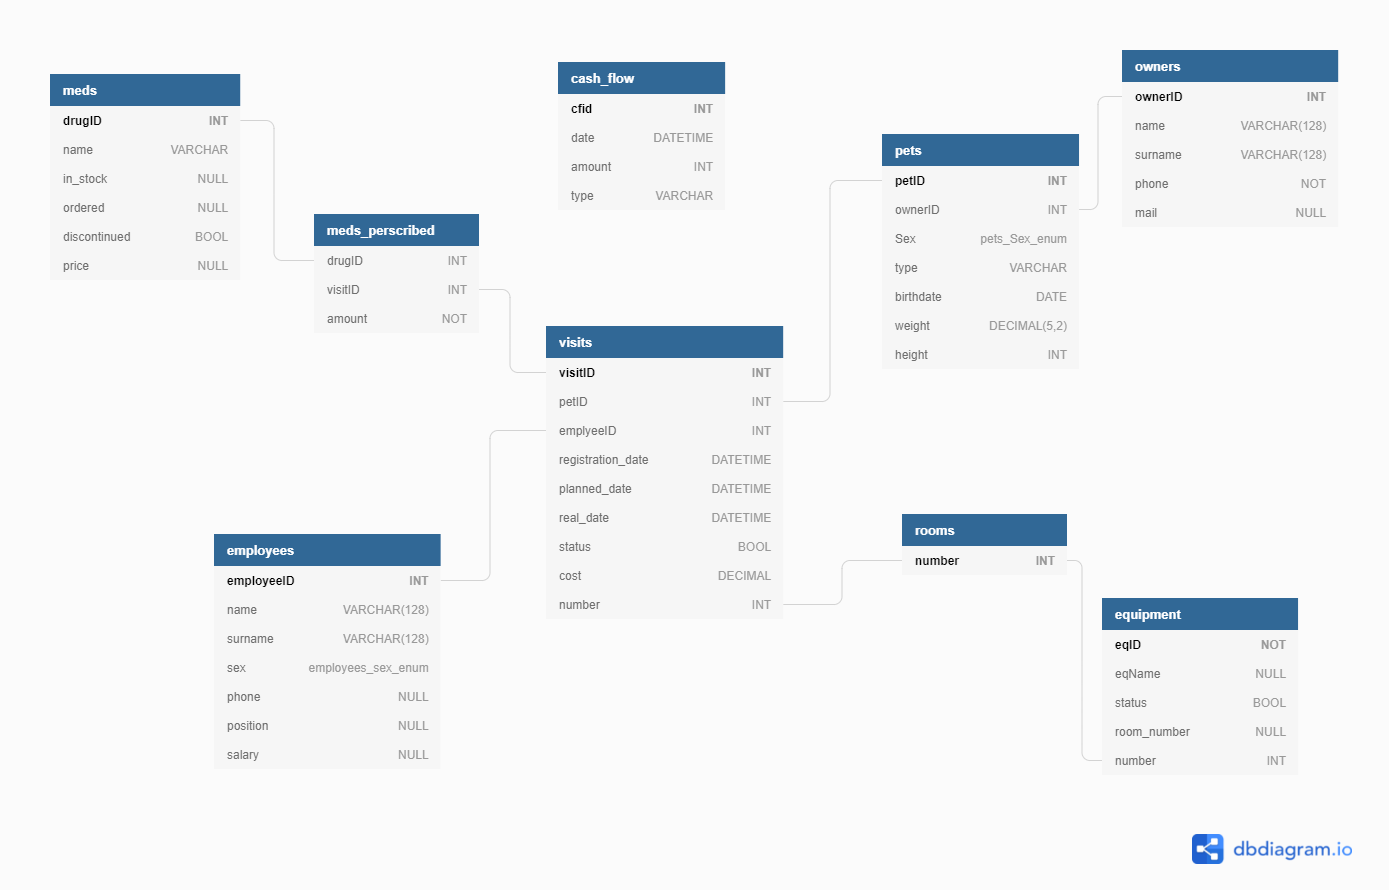
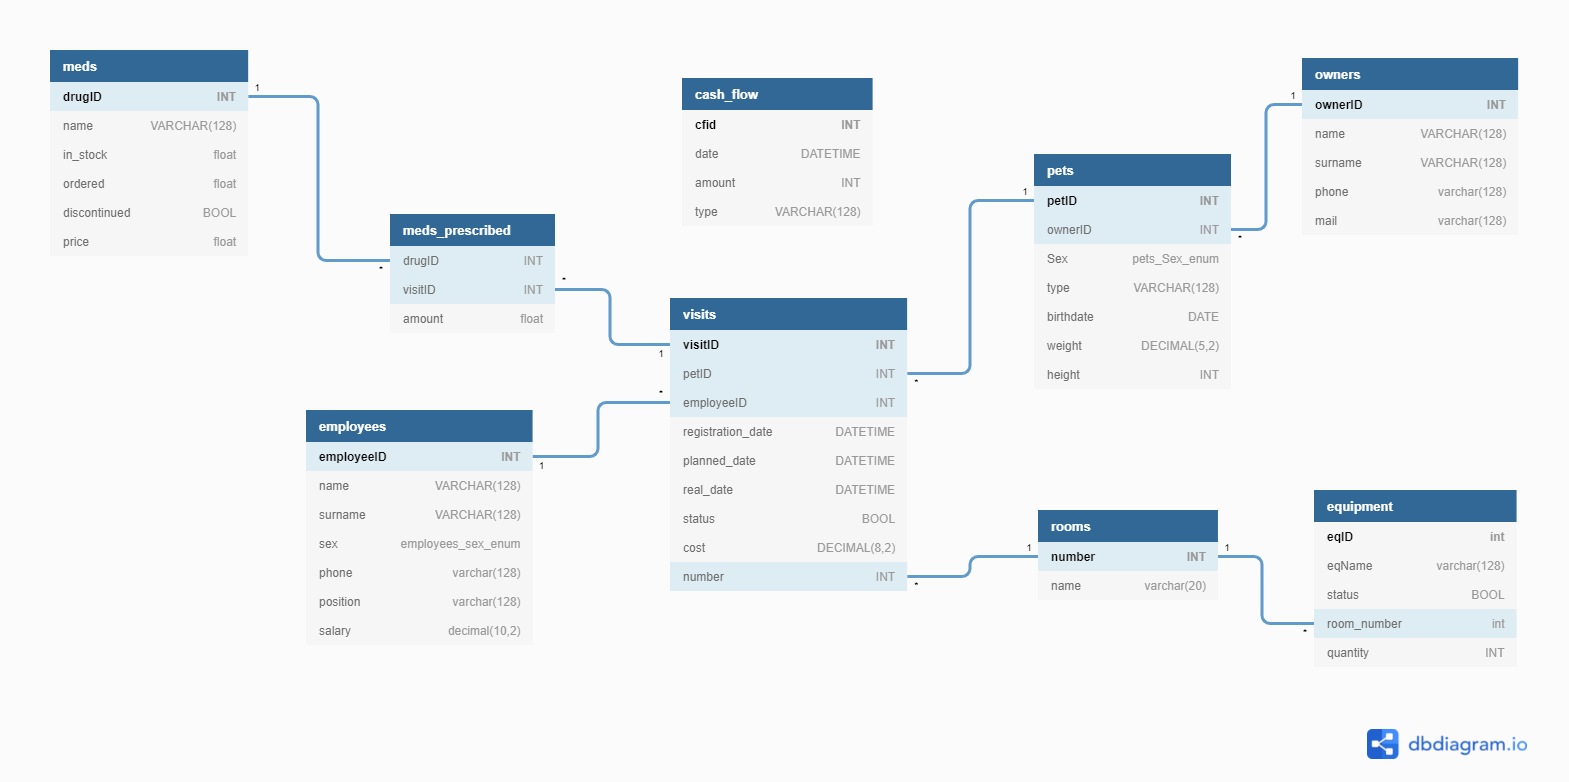
visits and cashflow generation

diff --git a/final_code/tables_fulfill.py b/final_code/tables_fulfill.py
@@ -3,6 +3,8 @@ from dataclasses import dataclass
 import numpy as np
 import pandas as pd
 import typing
+from datetime import datetime, timedelta
+from generate import breeds
 
 
 @dataclass
@@ -39,21 +41,23 @@ class Fulfillment:
         self.cursor.execute(qr, (name, in_stock, ordered, discontinued, price))
 
     def meds_prescribed(self, drugID, visitID, amount):
-        qr = '''INSERT INTO vet_clinic.meds_prescribed (name, in_stock, ordered, discontinued, price)
-        VALUES (?, ?, ?, ?, ?)'''
+        qr = '''INSERT INTO vet_clinic.meds_prescribed (drugID, visitID, amount) VALUES (?, ?, ?)'''
         self.cursor.execute(qr, (drugID, visitID, amount))
+
+    def cash_flow(self, date, amount, atype):
+        qr = 'INSERT INTO vet_clinic.cash_flow(date, amount, type) VALUES(?, ?, ?)'
+        self.cursor.execute(qr, (date, amount, atype))
 
 
 def fill(cursor):
     # zmienić później na rand values
     vets_number = 3
-    rooms_number = vets_number + 2
-    visits_number = 20
     owners_number = 200
     people = pd.read_csv(r'../data/users_randomized.csv').sample(1000)
     meds = pd.read_csv(r'../data/drugs.csv')
     vet = Fulfillment(cursor)
-
+    start_date = datetime(2020, 1, 1)
+    end_date = datetime.today() - timedelta(days=1)
 
     def employee_fill():
         # Recepcjonista
@@ -71,18 +75,18 @@ def fill(cursor):
 
         # weterynarze int(np.random.randint(3670, 5360)))
         for i in range(vets_number):
-            vet.employees(people.iloc[i+4, 0], people.iloc[i+4, 1], people.iloc[i+4, 3],
-                          str(people.iloc[i+4, 2]), 'Weterynarz', int(np.random.randint(3670, 5360)))
+            vet.employees(people.iloc[i + 4, 0], people.iloc[i + 4, 1], people.iloc[i + 4, 3],
+                          str(people.iloc[i + 4, 2]), 'Weterynarz', int(np.random.randint(3670, 5360)))
 
     def room_fill():
         rooms = {1: 'recepcja', 2: 'gabinet 1', 3: 'gabinet 2', 4: 'socjal', 5: 'zaplecze', 6: 'gabinet zabiegowy'}
         for key, val in rooms.items():
-            vet.rooms(key+100, val)
+            vet.rooms(key + 100, val)
 
     def equipment_fill():
         names = pd.read_excel('../generate/meds.xlsx', names=['name'])['name']
         for name in names.values:
-            vet.equipment(str(name), True, random.randint(2, 3)+100, random.randint(0, 5))
+            vet.equipment(str(name), True, random.randint(2, 3) + 100, random.randint(0, 5))
 
     def meds_fill():
         for name in meds.values:
@@ -96,31 +100,84 @@ def fill(cursor):
 
     def owners_and_pets_fill():
         number_of_pets = {1: 0.7, 2: 0.15, 3: 0.075, 4: 0.05, 5: 0.025}
-        probs = {'dog': 0.3, 'cat': 0.3, 'hamster': 0.05, 'rabbit': 0.05, 'rat': 0.01,
-                 'guinea_pig': 0.005, 'chinchilla': 0.01, 'turtle': 0.01, 'canary': 0.01,
-                 'budgerigar': 0.01, 'iguana': 0.01}
-        # tutaj owner?
-        for i in range(1): #owners_number
-            name = people.iloc[-(i+1), 0]
-            surname = people.iloc[-(i+1), 1]
-            phone = people.iloc[-(i+1), 2]
+        number_of_pets_cum = np.array(list(number_of_pets.values())).cumsum()
+        pet_probs = {'dog': 0.4, 'cat': 0.385, 'hamster': 0.075, 'rabbit': 0.06, 'rat': 0.025,
+                     'guinea_pig': 0.005, 'chinchilla': 0.01, 'turtle': 0.01, 'canary': 0.01,
+                     'budgerigar': 0.01, 'iguana': 0.01}
+        pet_attributes = {'dog': breeds.dogs, 'cat': breeds.cats, 'hamster': breeds.hamsters,
+                          'rabbit': breeds.rabbits, 'rat': breeds.rats,
+                          'guinea_pig': breeds.guinea_pigs, 'chinchilla': breeds.chinchillas, 'turtle': breeds.turtles,
+                          'canary': breeds.canaries, 'budgerigar': breeds.budgerigars, 'iguana': breeds.iguanas}
+        pet_probs_cum = np.array(list(pet_probs.values())).cumsum()
+        pet_types = list(pet_probs.keys())
+
+        # generating owners
+        for i in range(owners_number):  # owners_number
+            name = people.iloc[-(i + 1), 0]
+            surname = people.iloc[-(i + 1), 1]
+            phone = str(people.iloc[-(i + 1), 2])
             mail = f'{name}.{surname}@mail.com'
-            print(np.cumsum(number_of_pets.values()))
-
-
-    def pets_fill():
-        # prawdopodobieństwo jaki zwierzak
-
-        pass
+            # adding owner to db
+            vet.owners(name, surname, phone, mail)
+            owner_pets = np.sum(number_of_pets_cum <= random.random()) + 1
+            # generating pets for owners
+            for pet in range(owner_pets):
+                # 0 - male, 1 - female
+                if random.random() < 0.5:
+                    sex = 'Male'
+                else:
+                    sex = 'Female'
+                #
+                pet_type = pet_types[np.sum(pet_probs_cum <= random.random())]
+                height, weight, birth_date = pet_attributes[pet_type]()
+                vet.pets(i + 1, sex, pet_type, birth_date, weight, height)
 
     def visits_fill():
-        # tutaj przy okazji meds described?
-        pass
+        # dziennie n wizyt
+        # dla każdej wizyty losujemy zwierzaka
+        # dodajemy wizyte, koszt, przepisane leki, weterynarza
+        n = 20
+        visitID = 0
+        cursor.execute('select salary from employees')
+        salaries = [float(res[0]) for res in cursor]
+        for i in range(abs((end_date - start_date).days)):
+            day = start_date + timedelta(days=i)
+            # addnig salaries to db
+            if day.day == 1:
+                if (day.month != start_date.month) or (day.year != start_date.year):
+                    for salary in salaries:
+                        vet.cash_flow(day, -salary, 'wyplata')
+            for j in range(n):
+                visitID += 1
+                employeeID = random.randint(5, 7)
+                registation_day = day - timedelta(days=random.randint(7, 14))
+                # nie odbyla się
+                planned_date = day + timedelta(hours=9, minutes=j * 30)
+                if random.random() < 0.05:
+                    status = False
+                    real_date = None
+                    cost = 50
+                else:
+                    status = True
+                    real_date = planned_date
+                    cost = random.randint(50, 200)
+                    if random.random() < 0.1:
+                        cost += random.randint(200, 500)
+                petID = random.randint(1, 200)
+                vet.visits(petID=petID, employeeID=employeeID, registration_date=registation_day,
+                           planned_date=planned_date, real_date=real_date, status=status, cost=cost,
+                           number=random.randint(102, 103))
+
+                # wylosować lek i ilość
+                med_prescribed = meds.sample(random.randint(0, 3))
+                for k in range(med_prescribed.shape[0]):
+                    drugID = med_prescribed.index[k] + 1
+                    qty = random.randint(1, 3)
+                    vet.meds_prescribed(drugID=int(drugID), visitID=visitID, amount=qty)
 
     employee_fill()
     room_fill()
     equipment_fill()
     meds_fill()
-    visits_fill()
     owners_and_pets_fill()
-    pets_fill()
+    visits_fill()

diff --git a/generate/breeds.py b/generate/breeds.py
@@ -14,7 +14,7 @@ def random_date(start, end):
 
 def dogs_regression():
     # tabela z rasami psów, ich wysokością i masą
-    df = pd.read_excel('dogs.xlsx')
+    df = pd.read_excel(r'../generate/dogs.xlsx')
 
     # kolumny z górną i dolną granicą wysokości dla ras
     h_low = df['height_low_m']
@@ -40,9 +40,11 @@ def dogs_regression():
     return [mean_low.intercept_, mean_low.coef_[0], mean_high.intercept_, mean_low.coef_[0], min(h_low), max(h_high)]
 
 
-def dogs(b):
+def dogs():
+    b = dogs_regression()
     # zmienna objaśniająca to wysokość psa, więc losujemy jakąś
-    gen_height = r.uniform(b[4], b[5])
+    # gen_height = r.uniform(b[4], b[5])
+    gen_height = r.gauss((b[5] + b[4])/2, (b[5] - b[4])/6)
 
     # przewidywalna masa psa o zadanej wysokości
     lower_predict = b[0] + b[1] * gen_height
@@ -60,7 +62,7 @@ def dogs(b):
     birthdate = random_date(start, end)
     birthdate.strftime('%Y-%m-%d')
 
-    return 'dog', gen_height, gen_weight, birthdate
+    return gen_height*100, abs(gen_weight), birthdate
 
 
 def cats():
@@ -75,7 +77,7 @@ def cats():
     birthdate = random_date(start, end)
     birthdate.strftime('%Y-%m-%d')
 
-    return 'cat', height, weight, birthdate
+    return  height*100, weight, birthdate
 
 
 def hamsters():
@@ -90,7 +92,7 @@ def hamsters():
     birthdate = random_date(start, end)
     birthdate.strftime('%Y-%m-%d')
 
-    return 'hamster', height, weight, birthdate
+    return  height*100, weight, birthdate
 
 
 def rabbits():
@@ -105,7 +107,7 @@ def rabbits():
     birthdate = random_date(start, end)
     birthdate.strftime('%Y-%m-%d')
 
-    return 'rabbit', height, weight, birthdate
+    return  height*100, weight, birthdate
 
 
 def rats():
@@ -120,7 +122,7 @@ def rats():
     birthdate = random_date(start, end)
     birthdate.strftime('%Y-%m-%d')
 
-    return 'rat', height, weight, birthdate
+    return  height*100, weight, birthdate
 
 def guinea_pigs():
     weight = r.uniform(0.7, 1.2)
@@ -134,7 +136,7 @@ def guinea_pigs():
     birthdate = random_date(start, end)
     birthdate.strftime('%Y-%m-%d')
 
-    return 'guinea_pig', height, weight, birthdate
+    return  height*100, weight, birthdate
 
 def chinchillas():
     weight = r.uniform(0.8, 1.1)
@@ -148,7 +150,7 @@ def chinchillas():
     birthdate = random_date(start, end)
     birthdate.strftime('%Y-%m-%d')
 
-    return 'chinchilla', height, weight, birthdate
+    return  height*100, weight, birthdate
 
 def turtles():
     weight = r.uniform(0.5, 2)
@@ -162,7 +164,7 @@ def turtles():
     birthdate = random_date(start, end)
     birthdate.strftime('%Y-%m-%d')
 
-    return 'turtle', height, weight, birthdate
+    return  height*100, weight, birthdate
 
 def canaries():
     weight = r.uniform(0.0084, 0.023)
@@ -176,7 +178,7 @@ def canaries():
     birthdate = random_date(start, end)
     birthdate.strftime('%Y-%m-%d')
 
-    return 'canary', height, weight, birthdate
+    return height*100, weight, birthdate
 
 # papużki faliste xd
 def budgerigars():
@@ -191,7 +193,7 @@ def budgerigars():
     birthdate = random_date(start, end)
     birthdate.strftime('%Y-%m-%d')
 
-    return 'canary', height, weight, birthdate
+    return  height*100, weight, birthdate
 
 def iguanas():
     weight = r.uniform(0.03, 0.04)
@@ -205,13 +207,13 @@ def iguanas():
     birthdate = random_date(start, end)
     birthdate.strftime('%Y-%m-%d')
 
-    return 'canary', height, weight, birthdate
+    return  height*100, weight, birthdate
 
 
 if __name__ == "__main__":
     # kilka przykładowych rezultatów
     a = dogs_regression()
-    doggo_size = dogs(a)
+    doggo_size = dogs()
     print(doggo_size)
     cat_size = cats()
     print(cat_size)

diff --git a/final_code/main.py b/final_code/main.py
@@ -1,4 +1,4 @@
-from schema_creation import connection, schema_creation, execute_sql_code
+from schema_creation import connection, execute_sql_code
 from tables_fulfill import fill
 
 
@@ -6,8 +6,8 @@ def main():
     """
     there will be execution of all the other code from final_code directory
     """
-    conn = connection()
 
+    conn = connection(password='8nqw$NS54Yh7FgWU')
     # connect to Db
     # conn = connection()
     cur = conn.cursor()
@@ -18,11 +18,10 @@ def main():
     execs = a.split(';')
 
     for i, item in enumerate(execs):
-        item = item.replace('\n', '')
+        item = item.replace('\n', ' ')
         if len(item) == 0:
             pass
         else:
-            print(item)
             execute_sql_code(cur, item)
 
     # data fill
